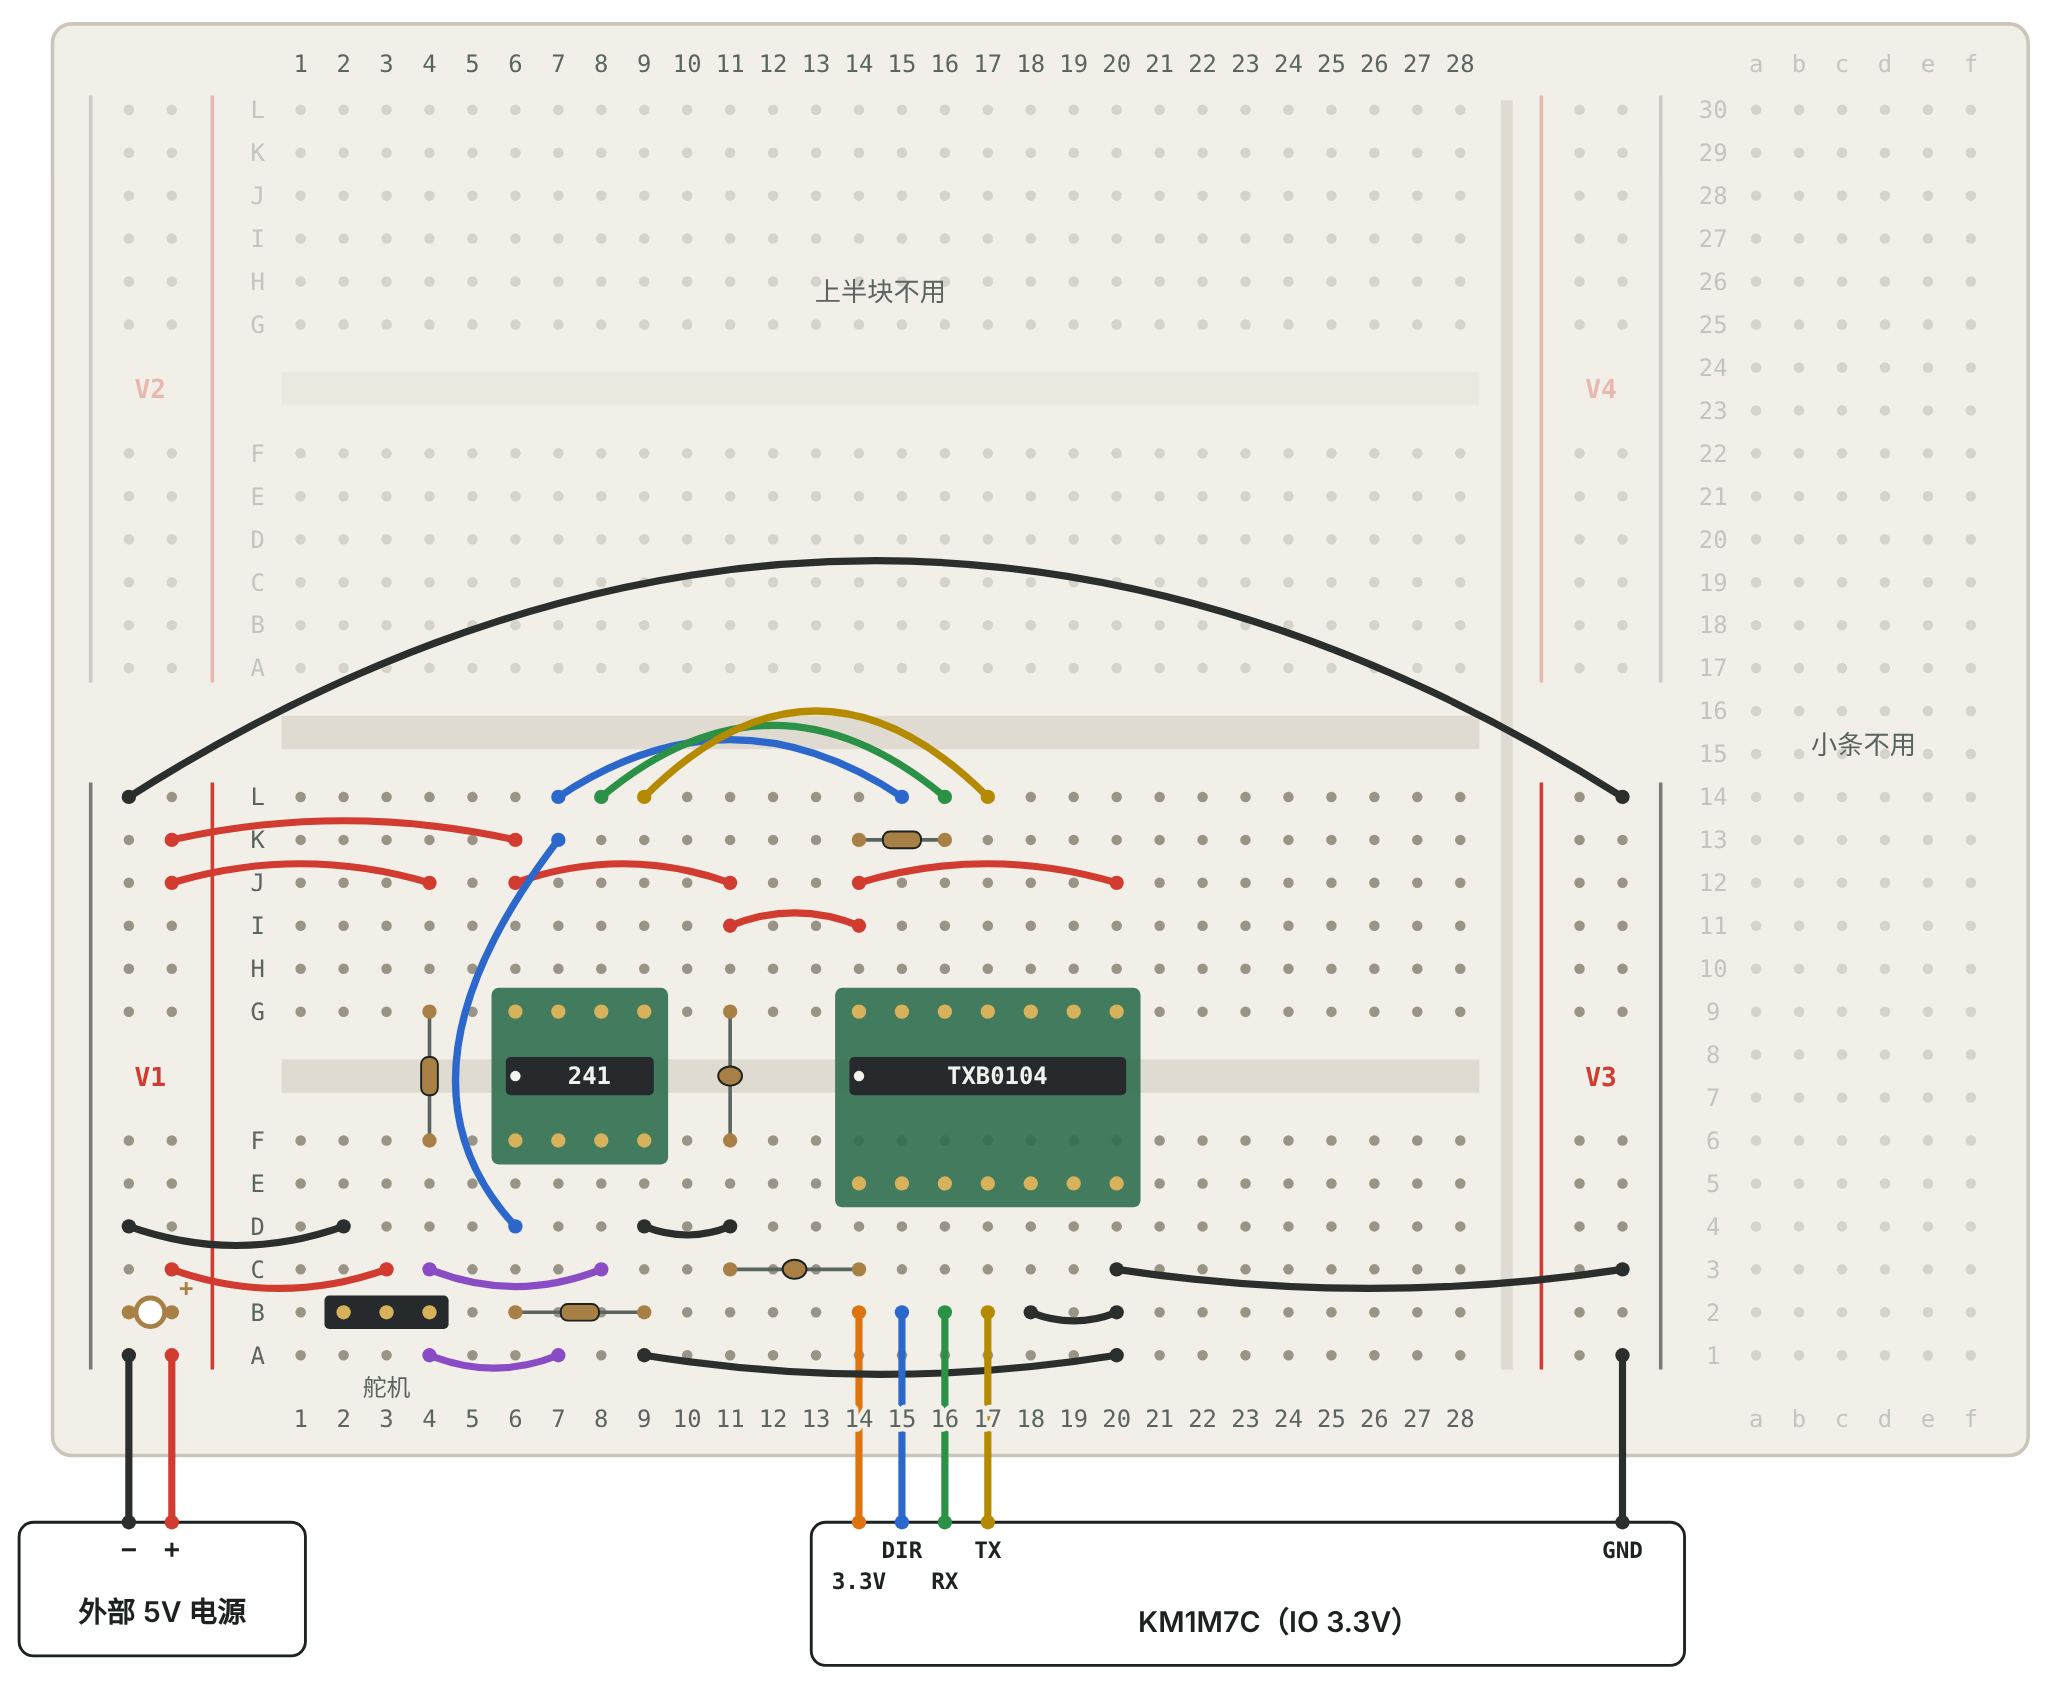
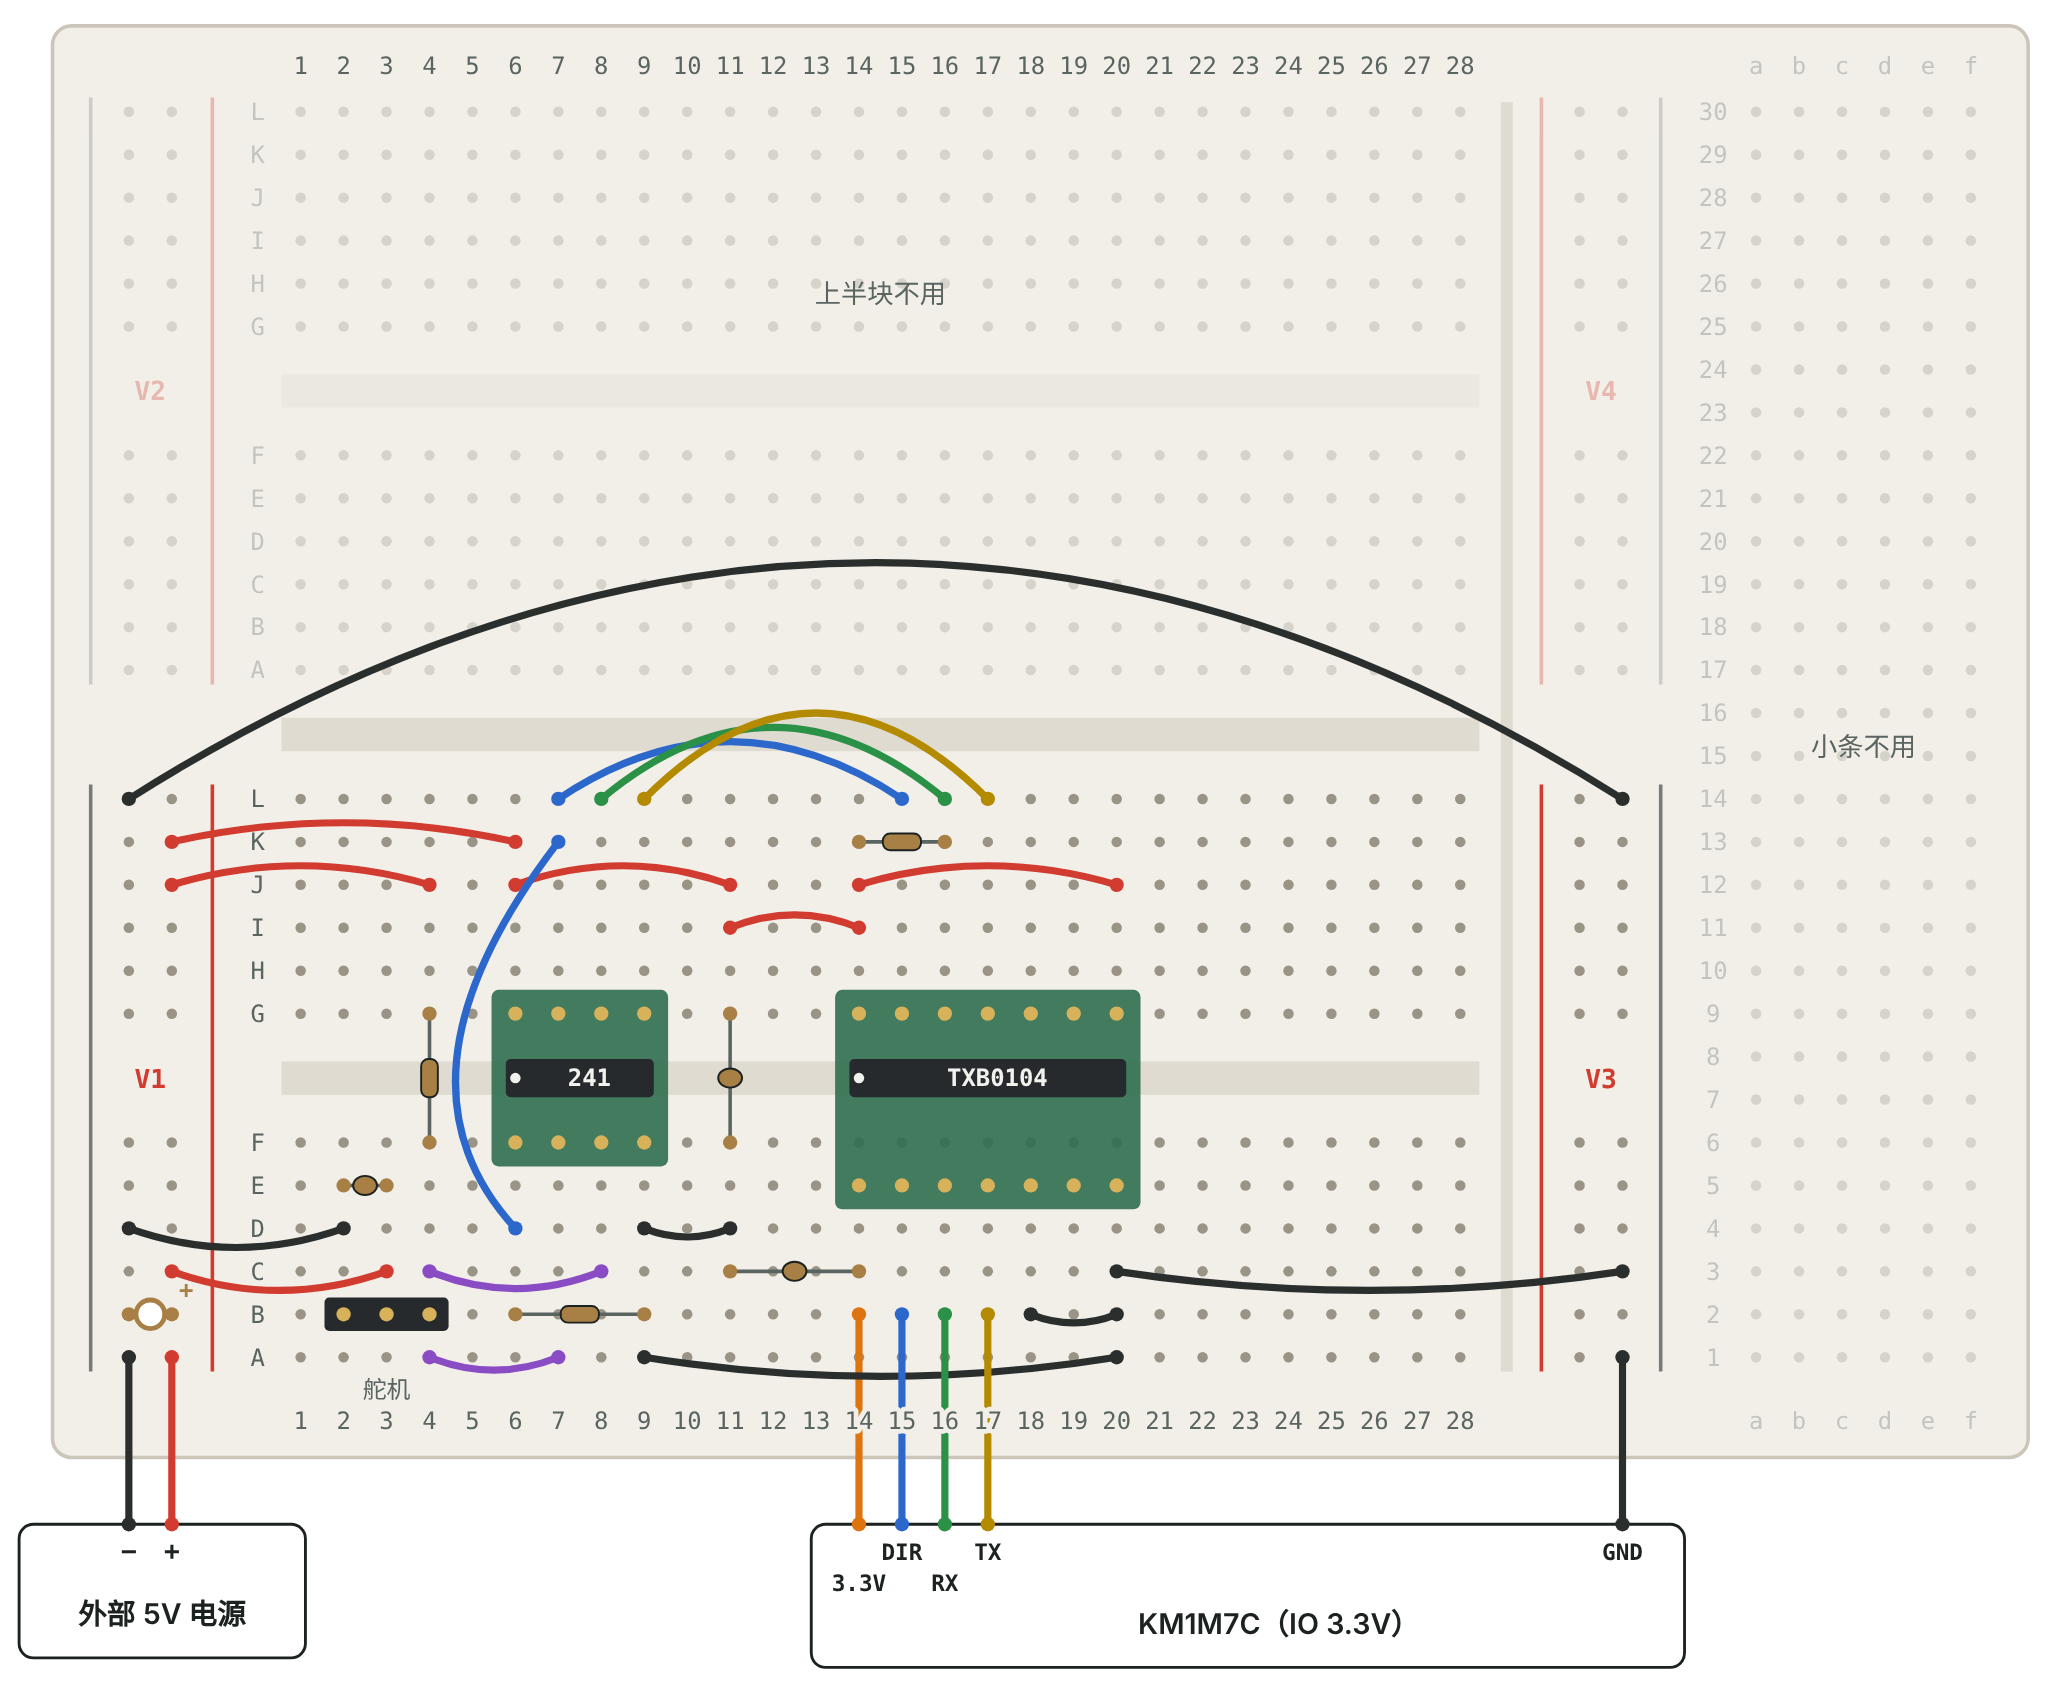
Add 0.1uF across the servo VDD/GND per ROBOTIS circuit
The ROBOTIS e-Manual communication circuit puts an electrolytic and a
0.1uF ceramic in parallel between VDD and GND at the DYNAMIXEL
connector. The 100uF (C4) was already on V1; add C5 0.1uF at 2E-3E next
to the servo header, note it on the schematic, and update the BOM.

Claude-Session: https://claude.ai/code/session_01WiTXKFSppvefth2JxyFg7v

diff --git a/docs/breadboard/xl330_breadboard.html b/docs/breadboard/xl330_breadboard.html
@@ -241,11 +241,13 @@ ol.steps{margin:0;padding-left:1.4em;display:grid;gap:8px;max-width:72ch}
         <text x="958" y="164">3 DATA</text>
         <text x="958" y="199">2 VDD</text>
         <text x="958" y="229">1 GND</text>
+        <text x="997" y="272" text-anchor="middle">VDD–GND 之间</text>
+        <text x="997" y="288" text-anchor="middle">100µF + 0.1µF</text>
         <line class="ln s-5" x1="950" y1="195" x2="930" y2="195"/><text class="t-5" x="926" y="199" text-anchor="end">+5V</text>
         <line class="ln s-g" x1="950" y1="225" x2="930" y2="225"/><text class="t-g" x="926" y="229" text-anchor="end">GND</text>
       </svg>
     </div>
-    <p class="cap">同名的电源标签表示接在同一条电源线上：+5V 是外部 5V 电源（同时给舵机供电），+3.3V 来自 MCU 板。DIR = 1 时 2Y 打开、1Y 关闭，MCU 发送；DIR = 0 时反过来，舵机应答。图里的数字是芯片引脚号。TXB0104 的三个通道可以随意分配，这里按 A1 = DIR、A2 = RX、A3 = TX 接，是为了让面包板上的连线不交叉。</p>
+    <p class="cap">同名的电源标签表示接在同一条电源线上：+5V 是外部 5V 电源（同时给舵机供电），+3.3V 来自 MCU 板。DIR = 1 时 2Y 打开、1Y 关闭，MCU 发送；DIR = 0 时反过来，舵机应答。图里的数字是芯片引脚号。舵机的 VDD 和 GND 之间按 ROBOTIS 推荐电路并联 100µF 电解电容和 0.1µF 瓷片电容。TXB0104 的三个通道可以随意分配，这里按 A1 = DIR、A2 = RX、A3 = TX 接，是为了让面包板上的连线不交叉。</p>
     <div class="legend" aria-label="线色图例">
       <span><i class="sw c-5"></i>5V</span><span><i class="sw c-33"></i>3.3V</span><span><i class="sw c-g"></i>GND</span><span><i class="sw c-tx"></i>TX</span><span><i class="sw c-rx"></i>RX</span><span><i class="sw c-dir"></i>DIR</span><span><i class="sw c-data"></i>DATA</span>
     </div>
@@ -330,7 +332,7 @@ ol.steps{margin:0;padding-left:1.4em;display:grid;gap:8px;max-width:72ch}
         <li><b>SN74LVC2G241 + 8 脚转接板</b><span>×1</span></li>
         <li><b>电阻 10kΩ</b><span>×1</span></li>
         <li><b>电阻 100kΩ</b><span>×2</span></li>
-        <li><b>瓷片电容 0.1µF</b><span>×2</span></li>
+        <li><b>瓷片电容 0.1µF</b><span>×3</span></li>
         <li><b>电解电容 100µF / 16V（脚距 2.5mm 以内）</b><span>×1</span></li>
         <li><b>3 针排针</b><span>×1</span></li>
         <li><b>XL330 转杜邦线（一端 JST EH 3P）</b><span>×1</span></li>
@@ -408,7 +410,8 @@ ol.steps{margin:0;padding-left:1.4em;display:grid;gap:8px;max-width:72ch}
     {t:'舵机排针',items:[
       ['K3','k','插入 3 针排针：2B、3B、4B','','','舵机线按 2 = GND（1 号）、3 = VDD（2 号）、4 = DATA（3 号）接上'],
       ['P2','w','V1N:D','2D','g','舵机 GND'],
-      ['P3','w','V1P:C','3C','5','舵机 VDD = 外部 5V']]},
+      ['P3','w','V1P:C','3C','5','舵机 VDD = 外部 5V'],
+      ['C5','c','2E','3E','part','舵机 VDD 和 GND 之间的瓷片电容。ROBOTIS 推荐电路在这里并联一个电解电容和一个 0.1µF，电解电容就是 V1 上的 C4','0.1µF']]},
     {t:'74LVC2G241 和中转列',items:[
       ['K2','k','插入 74LVC2G241 转接板','','','第 6–9 列，一排针插 G 行、一排插 F 行，1 脚（圆点）在 6F'],
       ['P4','w','V1P:K','6K','5','8 脚 VCC = 5V'],

diff --git a/docs/breadboard/README.md b/docs/breadboard/README.md
@@ -26,7 +26,7 @@
 
 ![电路图](img/schematic.png)
 
-同名的电源标签表示接在同一条电源线上：+5V 是外部 5V 电源（同时给舵机供电），+3.3V 来自 MCU 板。TXB0104 的三个通道可以随意分配，这里按 A1 = DIR、A2 = RX、A3 = TX 接，是为了让面包板上的连线不交叉。
+同名的电源标签表示接在同一条电源线上：+5V 是外部 5V 电源（同时给舵机供电），+3.3V 来自 MCU 板。舵机的 VDD 和 GND 之间按 ROBOTIS 推荐电路并联 100µF 电解电容和 0.1µF 瓷片电容（见 [ROBOTIS e-Manual 的 Communication Circuit](https://emanual.robotis.com/docs/en/dxl/x/xl330-m288/#communication-circuit)）。TXB0104 的三个通道可以随意分配，这里按 A1 = DIR、A2 = RX、A3 = TX 接，是为了让面包板上的连线不交叉。
 
 ## 面包板布局
 
@@ -72,6 +72,7 @@
 | K3 | 插入 3 针排针：2B、3B、4B |  | 舵机线按 2 = GND（1 号）、3 = VDD（2 号）、4 = DATA（3 号）接上 |
 | P2 | V1 − → 2D | 黑 | 舵机 GND |
 | P3 | V1 + → 3C | 红 | 舵机 VDD = 外部 5V |
+| C5 | 0.1µF：2E ↔ 3E | 元件 | 舵机 VDD 和 GND 之间的瓷片电容。ROBOTIS 推荐电路在这里并联一个电解电容和一个 0.1µF，电解电容就是 V1 上的 C4 |
 | **3** | **74LVC2G241 和中转列** | |  |
 | K2 | 插入 74LVC2G241 转接板 |  | 第 6–9 列，一排针插 G 行、一排插 F 行，1 脚（圆点）在 6F |
 | P4 | V1 + → 6K | 红 | 8 脚 VCC = 5V |
@@ -157,7 +158,7 @@ TXB0104 要求接在它引脚上的上下拉电阻不小于 50kΩ，所以 R2、
 | TXB0104 + 14 脚转 DIP 转接板 | 1 |
 | SN74LVC2G241 + 8 脚转接板（DCU = VSSOP 0.5mm，DCT = SM8 0.65mm，按后缀买） | 1 |
 | 电阻 10kΩ / 100kΩ | 1 / 2 |
-| 瓷片电容 0.1µF | 2 |
+| 瓷片电容 0.1µF | 3 |
 | 电解电容 100µF / 16V（脚距 2.5mm 以内） | 1 |
 | 3 针排针 | 1 |
 | XL330 转杜邦线（一端 JST EH 3P） | 1 |
